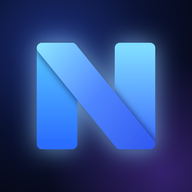
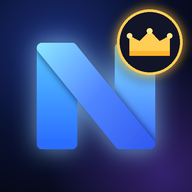
Add files via upload

Changed region(s): [[0.5625, 0.0, 1.0, 0.4688]]

diff --git a/nexa/nexa/owner/index.html b/nexa/nexa/owner/index.html
@@ -3,7 +3,14 @@
 <meta charset="utf-8"><meta name="viewport" content="width=device-width,initial-scale=1,viewport-fit=cover">
 <meta name="robots" content="noindex,nofollow">
 <title>Nexa Owner</title>
-<link rel="icon" href="../icon-192-v3.png">
+<link rel="icon" href="icon-192.png">
+<link rel="manifest" href="manifest.webmanifest">
+<link rel="apple-touch-icon" href="apple-touch-icon.png">
+<meta name="theme-color" content="#05070f">
+<meta name="apple-mobile-web-app-capable" content="yes">
+<meta name="mobile-web-app-capable" content="yes">
+<meta name="apple-mobile-web-app-title" content="Nexa Owner">
+<meta name="apple-mobile-web-app-status-bar-style" content="black-translucent">
 <style>
 :root{--ac:#3d7bff;--ac2:#5aa2ff;--mint:#5ff2c8;--text:#eef2ff;--mute:rgba(220,228,255,.68);--line:rgba(255,255,255,.14)}
 *{box-sizing:border-box;margin:0}
@@ -25,7 +32,7 @@ h1{font-size:28px;letter-spacing:-.02em}h2{font-size:17px;margin-bottom:10px}
 label{display:flex;flex-direction:column;gap:8px;font-weight:700;font-size:14px}
 .err{color:#ff9aa8;font-weight:600;font-size:14px}.ok{color:var(--mint);font-weight:600;font-size:14px}
 .gate{max-width:440px;margin:8vh auto 0;display:flex;flex-direction:column;gap:16px}
-.logo{width:56px;height:56px;border-radius:16px;background:url(../icon-192-v3.png) center/cover;box-shadow:0 0 40px rgba(80,140,255,.6)}
+.logo{width:56px;height:56px;border-radius:16px;background:url(icon-192.png) center/cover;box-shadow:0 0 40px rgba(80,140,255,.6)}
 .steps{display:flex;gap:6px}.steps i{height:5px;flex:1;border-radius:3px;background:rgba(255,255,255,.18)}.steps i.on{background:var(--mint)}
 .qr{background:#fff;border-radius:18px;padding:10px;width:220px;align-self:center}.qr svg{display:block;width:100%;height:auto}
 .tiles{display:grid;grid-template-columns:repeat(4,minmax(0,1fr));gap:12px}
@@ -198,6 +205,9 @@ function vSettings() {
     ${(d.bans || []).length ? d.bans.map(b => { const p = d.users.find(x => x.id === b.id) || {}; return `<div class="setrow"><span><b>${esc(p.name || 'Nexa user')}</b> <span class="mute small">${p.handle ? '@' + esc(p.handle) : ''}</span><div class="mute small">${fmtD(b.at)}${b.reason ? ' · ' + esc(b.reason) : ''}</div></span><button class="btn sm" data-unban="${b.id}" data-name="${esc(p.name || '')}">Unban</button></div>`; }).join('') : '<div class="mute small">No one is banned. Ban people from <b>Overview → Everyone</b> or inside a chat.</div>'}
     <div class="mute small">Banned people can't send messages, friend requests, events or moments.</div>
   </section>
+  <section class="glass card"><h2>📲 Install Nexa Owner</h2>
+    ${standalone ? '<div class="fixed">✅ You\'re using the installed Nexa Owner app.</div>' : S.installEvt ? '<div class="mute small">Get Nexa Owner as its own app with the gold-crown icon — separate from Nexa.</div><button class="btn pri" id="installOwner" style="align-self:flex-start">Install Nexa Owner</button>' : isIOS ? '<ol class="mute small" style="padding-left:18px;line-height:1.8"><li>Open this page in <b>Safari</b></li><li>Tap <b>Share</b> (square with arrow)</li><li>Tap <b>Add to Home Screen</b> → <b>Add</b></li></ol>' : '<ol class="mute small" style="padding-left:18px;line-height:1.8"><li><b>Chrome / Edge:</b> click the install icon (screen with ↓) at the right of the address bar, or <b>⋮ → Cast, save and share → Install page as app</b></li><li><b>Android:</b> <b>⋮ → Add to Home screen → Install</b></li><li><b>iPhone:</b> Safari → Share → Add to Home Screen</li></ol>'}
+  </section>
   <section class="glass card"><h2>🔒 Security</h2>
     <form id="f-pin" style="display:flex;flex-direction:column;gap:10px"><b class="small">Change owner PIN</b><input class="inp code" id="op" type="password" inputmode="numeric" placeholder="Current PIN" required style="font-size:18px"><input class="inp code" id="np1" type="password" inputmode="numeric" placeholder="New PIN" minlength="6" maxlength="12" required style="font-size:18px"><input class="inp code" id="np2" type="password" inputmode="numeric" placeholder="New PIN again" required style="font-size:18px"><button class="btn" style="align-self:flex-start">Change PIN</button></form>
     <b class="small">Where your sign-in code goes</b>
@@ -267,6 +277,12 @@ async function route() {
   catch (e) { if (e.code === 'verify-email') { S.uid = u.uid; S.err = ''; S.step = 'verify'; return render(); } S.err = e.message; S.step = 'signin'; render(); }
 }
 A.onAuthStateChanged(auth, () => route());
+// installable as its own app ("Nexa Owner") — uses the same Nexa service worker
+try { navigator.serviceWorker?.register('/sw.js'); } catch {}
+const standalone = matchMedia('(display-mode: standalone)').matches || navigator.standalone;
+const isIOS = /iPhone|iPad|iPod/.test(navigator.userAgent) || (/Macintosh/.test(navigator.userAgent) && navigator.maxTouchPoints > 1);
+window.addEventListener('beforeinstallprompt', e => { e.preventDefault(); S.installEvt = e; if (S.step === 'dash') renderKeep(); });
+window.addEventListener('appinstalled', () => { S.installEvt = null; S.flash = '✅ Nexa Owner is installed — find it on your home screen / apps.'; if (S.step === 'dash') renderKeep(); });
 document.addEventListener('submit', async e => {
   e.preventDefault(); const id = e.target.id; const v = Object.fromEntries([...e.target.querySelectorAll('input')].map(i => [i.id, i.value])); S.err = ''; S.okMsg = ''; S.busy = true; render();
   try {
@@ -298,6 +314,7 @@ document.addEventListener('click', async e => {
   if (t.id === 'saveAuto') { await savePrefs({ autoReply: $('#autoReply').value }); S.flash = '✅ Auto-reply saved.'; renderKeep(); return; }
   if (t.id === 'announce') { const text = $('#annText').value.trim(), title = $('#annTitle').value.trim(); if (!text) return alert('Write your announcement first.'); if (!confirm('Send this to EVERYONE on Nexa?\n\n' + (title ? title + '\n' : '') + text)) return; t.disabled = true; t.textContent = 'Sending…'; try { const r = await api('announce', { title, text }); $('#annText').value = ''; $('#annTitle').value = ''; S.flash = `📣 Sent to ${r.people} people (${r.pushed} phone notifications).`; } catch (er) { alert(er.message); } renderKeep(); return; }
   if (t.dataset.setmethod) { const m = t.dataset.setmethod; if (m === S.method && !S.newTotp) return; try { const r = await api('setMethod', { method: m }); if (r.secret) { const Q = (await import('../qr.js')).default; const q = Q(0, 'M'); q.addData(r.otpauth); q.make(); S.newTotp = { secret: r.secret, qr: q.createSvgTag({ cellSize: 5, margin: 2, scalable: true }) }; } else { S.method = r.method; S.newTotp = null; S.flash = '✅ Codes will now go to ' + (r.method === 'email' ? 'your email' : 'your @shiv account in Nexa') + '.'; } renderKeep(); } catch (er) { alert(er.message); } return; }
+  if (t.id === 'installOwner' && S.installEvt) { S.installEvt.prompt(); await S.installEvt.userChoice.catch(() => {}); S.installEvt = null; renderKeep(); return; }
   if (t.id === 'logoutAll') { if (!confirm('Sign out of the owner page on every device?')) return; try { await api('logoutAll'); } catch {} lockOut('Signed out everywhere. Unlock again to continue.'); return; }
   if (t.id === 'out') { S.session = ''; sessionStorage.removeItem('nexa.owner.session'); S.data = null; await A.signOut(auth); }
   if (t.id === 'refresh') { t.textContent = 'Refreshing…'; loadData(); if (S.cid) loadThread(); }
